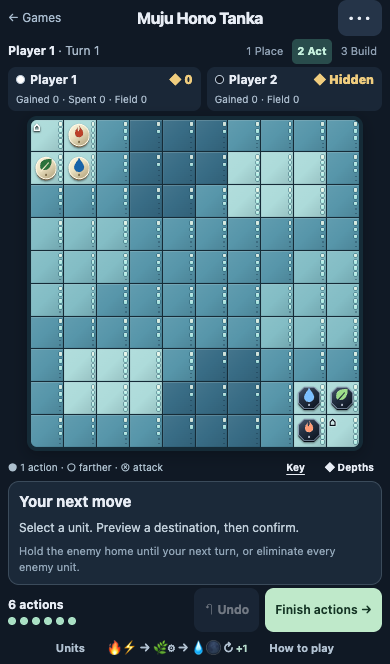
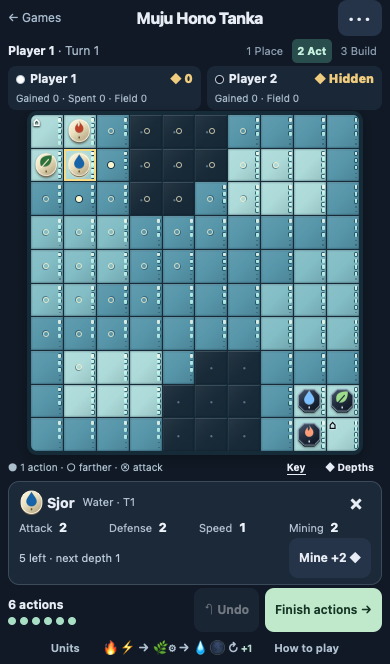
Make two-crystal starting approaches empty and verify the visual release

diff --git a/muju/tests/game/resource-map.test.ts b/muju/tests/game/resource-map.test.ts
@@ -2,28 +2,44 @@ import {describe,it,expect,beforeEach} from 'vitest';
 import {createInitialGameState} from '../../src/game/board';
 import {UNEQUAL_ROUTES_MAP,INITIAL_MAP_RESOURCES} from '../../src/game/resourceMap';
 import {MAPS} from '../../lab/maps/maps';
+import {isValidMove} from '../../src/game/movement';
+import {isValidSpawnPosition} from '../../src/game/spawning';
+import {canMine,executeMine} from '../../src/game/mining';
 import {applyAction} from '../../src/ai/simulate';
 import {checkInvariants} from '../../lab/harness/invariants';
 import {saveGameState,loadGameState} from '../../src/utils/persistence';
 
 describe('Unequal routes production map',()=>{
  beforeEach(()=>localStorage.clear());
- it('ships exactly reviewed map D, with 340 fresh layers and rotational starts',()=>{
-  expect(UNEQUAL_ROUTES_MAP).toEqual(MAPS.find(m=>m.id==='D')!.cells);
-  expect(INITIAL_MAP_RESOURCES).toBe(340);
+ it('changes only the 16 two-crystal cells of reviewed map D to blank, with 308 fresh layers',()=>{
+  expect(UNEQUAL_ROUTES_MAP).toEqual(MAPS.find(m=>m.id==='D')!.cells.map(n=>n===2?0:n));
+  expect(UNEQUAL_ROUTES_MAP.filter(n=>n===0)).toHaveLength(16);
+  expect([...UNEQUAL_ROUTES_MAP].reverse()).toEqual(UNEQUAL_ROUTES_MAP);
+  expect(INITIAL_MAP_RESOURCES).toBe(308);
   const s=createInitialGameState();expect(s.board.cells.flat().map(c=>c.resourceLayers)).toEqual(UNEQUAL_ROUTES_MAP);
   expect(s.board.cells.flat().every(c=>c.minedDepth===0)).toBe(true);checkInvariants(s,'fresh D');
  });
- it('mines a shallow fresh well from depth one and conserves its original capacity',()=>{
+ it('keeps blank approaches walkable and spawn-eligible, with no mining yield',()=>{
   let s=createInitialGameState();const u=s.board.units.find(u=>u.owner==='white'&&u.definitionId==='plant_1')!;
-  u.position={x:3,y:0};s=applyAction(s,{type:'MINE',unitId:u.id});
-  expect(s.players.white.resources).toBe(2);expect(s.board.cells[0][3].minedDepth).toBe(2);expect(s.board.cells[0][3].resourceLayers).toBe(0);checkInvariants(s,'mined shallow');
+  u.position={x:2,y:0};expect(isValidMove(u,{x:3,y:0},s.board)).toBe(true);
+  s=applyAction(s,{type:'MOVE',unitId:u.id,to:{x:3,y:0}});
+  const moved=s.board.units.find(p=>p.id===u.id)!;expect(moved.position).toEqual({x:3,y:0});
+  expect(canMine(moved,s.board)).toBe(false);
+  expect(executeMine(s.board,u.id,0)).toEqual({board:s.board,newResources:0,amountMined:0});
+  expect(s.board.cells[0][3].minedDepth).toBe(0);checkInvariants(s,'blank approach');
+  moved.position={x:4,y:0};expect(isValidSpawnPosition({x:3,y:0},'white',s.board)).toBe(true);
+ });
+ it('mines remaining three-crystal seams from depth one and preserves two-crystal remainders',()=>{
+  let s=createInitialGameState();const u=s.board.units.find(u=>u.owner==='white'&&u.definitionId==='fire_1')!;
+  u.position={x:2,y:0};s=applyAction(s,{type:'MINE',unitId:u.id});
+  expect(s.players.white.resources).toBe(1);expect(s.board.cells[0][2].minedDepth).toBe(1);expect(s.board.cells[0][2].resourceLayers).toBe(2);checkInvariants(s,'mined seam');
+  saveGameState(s);expect(loadGameState()).toEqual(s);
  });
  it('preserves legacy saves and starts the new board only for new games',()=>{
   const old=createInitialGameState(Array(100).fill(5));delete old.board.initialResourceLayers;
   const u=old.board.units[0];const mined=applyAction(old,{type:'MINE',unitId:u.id});saveGameState(mined);
   expect(loadGameState()).toEqual(mined);checkInvariants(loadGameState()!,'legacy save');
-  expect(createInitialGameState().board.cells.flat().reduce((s,c)=>s+c.resourceLayers,0)).toBe(340);
+  expect(createInitialGameState().board.cells.flat().reduce((s,c)=>s+c.resourceLayers,0)).toBe(308);
  });
  it('round-trips a new map save and detects resource corruption',()=>{
   const s=createInitialGameState();saveGameState(s);expect(loadGameState()).toEqual(s);checkInvariants(loadGameState()!,'D save');

diff --git a/muju/src/components/InstructionsModal.tsx b/muju/src/components/InstructionsModal.tsx
@@ -3,6 +3,9 @@ import { PlayDialog } from './PlayDialog';
 import { ELEMENT_INFO, getAttackModifier } from '../game/elements';
 import { getUnitDefinition } from '../game/units';
 import { getElementHex } from '../utils/colors';
+import { UnitArtwork } from './UnitArtwork';
+import { CrystalWell } from './CrystalWell';
+import type { Tier } from '../game/types';
 
 interface InstructionsModalProps {
   isOpen: boolean;
@@ -23,18 +26,10 @@ function DemoUnit({
   size?: 'sm' | 'md' | 'lg';
   damage?: number;
 }) {
-  const color = getElementHex(element);
-  const sizeClass = size === 'sm' ? 'w-6 h-6 text-xs' : size === 'lg' ? 'w-10 h-10 text-base' : 'w-8 h-8 text-sm';
+  const sizeClass = size === 'sm' ? 'w-6 h-6' : size === 'lg' ? 'w-10 h-10' : 'w-8 h-8';
   return (
-    <div className="relative inline-block">
-      <div
-        className={`${sizeClass} rounded-full flex items-center justify-center font-bold text-white ${
-          isPlayer ? 'ring-2 ring-white' : 'ring-2 ring-black'
-        }`}
-        style={{ backgroundColor: color }}
-      >
-        {tier}
-      </div>
+    <div className={`relative inline-block ${sizeClass}`}>
+      <UnitArtwork owner={isPlayer ? 'white' : 'black'} element={element} tier={tier as Tier} />
       {damage > 0 && (
         <div className="absolute -top-1 -right-1 bg-red-600 text-white text-[10px] font-bold rounded-full w-4 h-4 flex items-center justify-center">
           -{damage}
@@ -55,15 +50,6 @@ function DemoCell({
   highlightType?: 'move' | 'attack' | 'spawn';
   children?: React.ReactNode;
 }) {
-  const depthColors = [
-    'bg-gray-800', // 0 = depleted
-    'bg-amber-900/40',
-    'bg-amber-800/50',
-    'bg-amber-700/60',
-    'bg-amber-600/70',
-    'bg-amber-500/80', // 5 = full
-  ];
-
   let highlightClass = '';
   if (highlighted) {
     if (highlightType === 'move') highlightClass = 'ring-2 ring-blue-400 ring-inset';
@@ -73,8 +59,9 @@ function DemoCell({
 
   return (
     <div
-      className={`w-10 h-10 border border-gray-700 flex items-center justify-center ${depthColors[depth]} ${highlightClass}`}
+      className={`relative w-10 h-10 border border-gray-700 flex items-center justify-center board-cell depth-${depth} ${highlightClass}`}
     >
+      <CrystalWell cell={{position: {x: 0, y: 0}, resourceLayers: depth, minedDepth: 0}} />
       {children}
     </div>
   );
@@ -209,8 +196,8 @@ const instructionPages: InstructionPage[] = [
       <div className="space-y-4">
         <p className="text-gray-300">
           The game is played on a <strong className="text-white">10×10 grid</strong>. Each cell contains up to
-          5 layers of resources (shown by amber coloring). New games use <strong className="text-white">Unequal routes</strong>:
-          deep starting corners, four-layer shelves, and shallow paths to five-layer expansion wells. The same layout rotates 180° for the other player, with 340 crystals in total.
+          5 layers of resources (brighter blue-green squares hold more). New games use <strong className="text-white">Unequal routes</strong>:
+          deep starting corners, four-layer shelves, three-layer seams, and 16 blank squares on the paths to five-layer expansion wells. Blank squares have no crystals, but units can move and be placed there normally. The same layout rotates 180° for the other player, with 308 crystals in total.
         </p>
         <div className="flex justify-center items-end gap-2">
           <div className="text-center">

diff --git a/muju/e2e/mobile.spec.ts b/muju/e2e/mobile.spec.ts
@@ -185,12 +185,16 @@ test('v1.3 Lightning combat, Plant extraction and tutorial agree with the catalo
   await expect(page.locator('.help-body')).toContainText('Depleted layers do not return');
 });
 
-test('new games use map D with fresh shallow cells and preserve the layout on reload', async ({ page }) => {
+test('new games use map D with blank approaches and preserve the layout on reload', async ({ page }) => {
   await start(page);
   await page.getByRole('button', { name: 'Depths' }).click();
   const layers = await page.locator('.resource-number').allTextContents();
-  expect(layers.reduce((sum, n) => sum + Number(n), 0)).toBe(340);
-  await expect(page.getByTestId('cell-3-0')).toHaveAttribute('aria-label', /2 resource layers.*next layer at depth 1/);
+  expect(layers.reduce((sum, n) => sum + Number(n), 0)).toBe(308);
+  expect(layers.filter(n => Number(n) === 0)).toHaveLength(16);
+  await expect(page.getByTestId('cell-3-0').locator('.crystal')).toHaveCount(0);
+  await expect(page.getByTestId('cell-3-0').locator('.bedrock')).toHaveCount(5);
+  await expect(page.getByTestId('cell-3-0')).toHaveAttribute('title', 'No crystals · bedrock');
+  await expect(page.getByTestId('cell-3-0')).toHaveAttribute('aria-label', /0 resource layers, no crystals, bedrock/);
   await page.getByTestId('cell-1-1').click();
   await page.getByRole('button', { name: /Mine \+2/ }).click();
   await page.getByRole('button', { name: 'Finish actions' }).click();
@@ -199,7 +203,7 @@ test('new games use map D with fresh shallow cells and preserve the layout on re
   await page.getByRole('button', { name: 'Pass & Play' }).click();
   await page.getByRole('button', { name: 'Start Game' }).click();
   await expect(page.getByTestId('cell-1-1')).toHaveAttribute('aria-label', /3 resource layers.*next layer at depth 3/);
-  await expect(page.getByTestId('cell-3-0')).toHaveAttribute('aria-label', /2 resource layers.*next layer at depth 1/);
+  await expect(page.getByTestId('cell-3-0')).toHaveAttribute('aria-label', /0 resource layers, no crystals, bedrock/);
 });
 
 for (const [width,height] of [[320,568],[390,664]]) test(`home invasion warns, resolves, and survives reload ${width}`,async({page},info)=>{

diff --git a/muju/src/components/Cell.tsx b/muju/src/components/Cell.tsx
@@ -11,7 +11,7 @@ export function Cell({ cell, isValidMove, isValidAttack, isValidSpawn, isSelecte
   const reach = movementRangeActions !== undefined;
   const coord = `${String.fromCharCode(65 + cell.position.x)}${cell.position.y + 1}`;
   const crystalDescription = describeCrystals(cell);
-  const label = `${coord}${home ? `, ${home} home corner` : ''}${unitLabel ? `, ${unitLabel}` : ''}, ${cell.resourceLayers} resource layers, ${cell.resourceLayers > 0 ? `next layer at depth ${cell.minedDepth + 1}, bottom depth ${cell.minedDepth + cell.resourceLayers}` : 'depleted'}${reach ? `, move costs ${moveCost} actions` : ''}${isValidAttack ? ', attack target' : ''}${isValidSpawn ? ', available for placement' : ''}`;
+  const label = `${coord}${home ? `, ${home} home corner` : ''}${unitLabel ? `, ${unitLabel}` : ''}, ${cell.resourceLayers} resource layers, ${cell.resourceLayers > 0 ? `next layer at depth ${cell.minedDepth + 1}, bottom depth ${cell.minedDepth + cell.resourceLayers}` : cell.minedDepth > 0 ? 'depleted' : 'no crystals, bedrock'}${reach ? `, move costs ${moveCost} actions` : ''}${isValidAttack ? ', attack target' : ''}${isValidSpawn ? ', available for placement' : ''}`;
   return <button type="button" tabIndex={unitLabel ? 0 : -1} aria-label={label} title={crystalDescription} aria-pressed={isSelected || isPreview}
     className={`board-cell depth-${cell.resourceLayers} ${isSelected ? 'selected' : ''} ${isValidAttack ? 'attack-target' : ''} ${isValidSpawn ? 'spawn-target' : ''} ${isPendingMove ? 'path-cell' : ''} ${isPreview ? 'preview-cell' : ''}`}
     onClick={() => onClick(cell.position)} data-testid={`cell-${cell.position.x}-${cell.position.y}`}>

diff --git a/muju/src/game/resourceMap.ts b/muju/src/game/resourceMap.ts
@@ -1,16 +1,16 @@
-/** Map D, Unequal routes. Fixed 10×10, 180° rotation; unit catalogue remains v1.3.
+/** Map D, Unequal routes. Empty approaches revision: former two-crystal cells start empty. Fixed 10×10, 180° rotation; unit catalogue remains v1.3.
  * Rows are top to bottom. Each value is initial capacity, never pre-mined depth. */
 export const RESOURCE_MAP_NAME = 'Unequal routes';
 export const UNEQUAL_ROUTES_MAP: readonly number[] = Object.freeze([
-  5, 5, 3, 2, 2, 2, 3, 3, 3, 3,
-  5, 5, 3, 2, 2, 2, 5, 5, 5, 3,
-  3, 3, 3, 2, 2, 3, 5, 5, 5, 3,
+  5, 5, 3, 0, 0, 0, 3, 3, 3, 3,
+  5, 5, 3, 0, 0, 0, 5, 5, 5, 3,
+  3, 3, 3, 0, 0, 3, 5, 5, 5, 3,
   4, 4, 4, 3, 3, 3, 3, 3, 3, 3,
   4, 4, 4, 3, 3, 3, 3, 3, 4, 4,
   4, 4, 3, 3, 3, 3, 3, 4, 4, 4,
   3, 3, 3, 3, 3, 3, 3, 4, 4, 4,
-  3, 5, 5, 5, 3, 2, 2, 3, 3, 3,
-  3, 5, 5, 5, 2, 2, 2, 3, 5, 5,
-  3, 3, 3, 3, 2, 2, 2, 3, 5, 5,
+  3, 5, 5, 5, 3, 0, 0, 3, 3, 3,
+  3, 5, 5, 5, 0, 0, 0, 3, 5, 5,
+  3, 3, 3, 3, 0, 0, 0, 3, 5, 5,
 ]);
 export const INITIAL_MAP_RESOURCES = UNEQUAL_ROUTES_MAP.reduce((sum,n)=>sum+n,0);

diff --git a/muju/src/components/VisualKey.tsx b/muju/src/components/VisualKey.tsx
@@ -8,7 +8,7 @@ const examples = [
   { left: 3, dug: 0, label: 'Thin seam', detail: '3 left · next 1' },
   { left: 3, dug: 2, label: 'Dug down', detail: '3 left · next 3' },
   { left: 1, dug: 4, label: 'Deep', detail: '1 left · next 5' },
-  { left: 1, dug: 0, label: 'Shallow', detail: '1 left · next 1' },
+  { left: 0, dug: 0, label: 'Blank', detail: 'No crystals' },
   { left: 0, dug: 5, label: 'Empty', detail: '0 left' },
 ];
 const elements: Element[] = ['fire', 'lightning', 'water', 'shadow', 'plant', 'metal'];

diff --git a/muju/src/components/CrystalWell.tsx b/muju/src/components/CrystalWell.tsx
@@ -5,7 +5,7 @@ export function describeCrystals(cell: Cell): string {
   const total = cell.minedDepth + cell.resourceLayers;
   return cell.resourceLayers > 0
     ? `${cell.resourceLayers} crystal${cell.resourceLayers === 1 ? '' : 's'} left · next depth ${cell.minedDepth + 1} · bottom ${total}`
-    : `Depleted · ${total} layers mined`;
+    : total > 0 ? `Depleted · ${total} layers mined` : 'No crystals · bedrock';
 }
 
 /** Fixed vertical depth positions prevent confusing a shallow thin seam with

diff --git a/muju/src/game/mining.ts b/muju/src/game/mining.ts
@@ -12,7 +12,7 @@ export function canMineAction(unit: Unit): boolean {
 
 /**
  * The Well Metaphor:
- * - Each square starts with 2–5 depth layers on Unequal routes, each worth 1 resource
+ * - Each square starts with 0, 3, 4, or 5 depth layers on Unequal routes, each worth 1 resource
  * - A unit's Mining stat is its "rope length"
  * - Mining removes topmost remaining layers up to Mining stat
  * - You cannot skip layers or reach deeper than Mining allows

diff --git a/muju/tests/game/properties.test.ts b/muju/tests/game/properties.test.ts
@@ -46,7 +46,7 @@ function mulberry32(seed: number): () => number {
   };
 }
 
-const TOTAL_BOARD_RESOURCES = INITIAL_MAP_RESOURCES; // 340
+const TOTAL_BOARD_RESOURCES = INITIAL_MAP_RESOURCES; // 308
 
 function legalActions(state: GameState, player: PlayerId): AIAction[] {
   switch (state.turn.phase) {

diff --git a/muju/SPEC.md b/muju/SPEC.md
@@ -27,7 +27,7 @@ may be a human or an AI (`vs-ai`, `pass-play`, and `ai-vs-ai` modes).
   starts with 3 units adjacent to their corner and 0 resources.
   - White: Hi (fire_1) at (1,0), Sjor (water_1) at (1,1), Muju (plant_1) at (0,1).
   - Black: Hi at (8,9), Sjor at (8,8), Muju at (9,8).
-- **Resources:** **Unequal routes (map D)**: fixed 180°-rotational layout, 2–5 initial layers per cell, **340 total**. Deep home corners, four-layer shelves and shallow approaches to deep expansion wells. Exact layout: `src/game/resourceMap.ts`. Existing saves retain their original layout.
+- **Resources:** **Unequal routes (map D)**: fixed 180°-rotational layout, 0, 3, 4, or 5 initial layers per cell, **308 total**. Deep home corners, four-layer shelves and sixteen blank approaches to deep expansion wells (walkable and spawn-eligible as usual). Exact layout: `src/game/resourceMap.ts`. Existing saves retain their original layout.
 - **White moves first.** The first turn begins directly in the Action phase
   (there is nothing to place or promote at game start).
 
@@ -96,7 +96,7 @@ may attack different enemies multiple times in one turn, budget permitting.
 ## 5. Economy
 
 ### 5.1 Mining — the Well Metaphor
-- Each cell starts with 2–5 depth layers, numbered from 1 and worth 1 resource each. A unit's **Mining**
+- Each cell starts with 0, 3, 4, or 5 depth layers, numbered from 1 and worth 1 resource each. A unit's **Mining**
   stat is its rope length: it can reach layers down to depth = Mining.
 - A mine action (1 action) extracts **all remaining layers from the current
   top down to the unit's Mining depth**, i.e.
@@ -104,7 +104,7 @@ may attack different enemies multiple times in one turn, budget permitting.
 - If the cell's top remaining layer is deeper than the unit's Mining stat, the
   cell is **dry for that unit** (yield 0; the action is not consumable —
   `canMine` is false). Mining 0 units (Radi, Umeme, Göl) can never mine.
-- Mined layers are gone forever; the board economy is finite (340 total on Unequal routes; 500 in legacy uniform games).
+- Mined layers are gone forever; the board economy is finite (308 total on Unequal routes; 500 in legacy uniform games).
 
 ### 5.2 Build queue (hidden)
 - During the queue phase, the player pays a unit's **Cost** and adds it to

diff --git a/muju/docs/EMPTY_APPROACHES-2026-09-07.md b/muju/docs/EMPTY_APPROACHES-2026-09-07.md
@@ -1,0 +1,16 @@
+# Empty approaches and clearer armies — 2026-09-07
+
+New games use the revised Unequal routes map: all sixteen starting two-crystal cells are now blank (zero crystals, zero mined depth). The remaining 84 cells are unchanged: 20 × five, 16 × four, and 48 × three crystals, for **308 total**. Rotation and starting homes are unchanged. Empty squares remain walkable and eligible for normal reinforcement placement.
+
+This changes initial map capacity only. Mining can still leave two crystals in a well. Saved games retain their exact state and original resource budget. Start a new game to play the revised map.
+
+The release also includes blue-green reserve shading, inset excavation depth and crystal gauges, and ivory/obsidian army graphics with six element silhouettes and tier marks. The board key distinguishes blank bedrock from an exhausted well; the how-to-play examples use the same graphics as the board.
+
+Historical map-study and playtest fixtures remain frozen at 340 crystals. Their balance results are not measurements of the revised map. Unit stats and AI search rules are unchanged.
+
+## Release verification
+
+- 622 unit/property tests and all 27 browser tests pass, including all five AI worker levels.
+- New checks prove the exact 16-cell delta, 308 total, rotation, zero mining yield, normal movement and spawn eligibility, and persistence of two-crystal remainders.
+- The complete three-game build and phone/tablet gameplay smoke checks pass.
+- WebKit touch viewports at 390×664, 320×568 and 844×390 show 16 blank cells, 308 crystals, and no document overflow. The iPhone-size board was visually inspected.

diff --git a/muju/docs/VISUAL_SYSTEM-2026-09-07.md b/muju/docs/VISUAL_SYSTEM-2026-09-07.md
@@ -1,6 +1,6 @@
 # Crystal wells and elemental armies
 
-Visual implementation based on production source `9c2a94d` (WASM AI, map D and home victory included). This branch changes graphics and explanatory UI only. No mining, unit, balance, map, turn, or AI rules were changed. It has not been deployed.
+Visual implementation based on production source `9c2a94d` (WASM AI, map D and home victory included). The original visual change affected graphics and explanatory UI only. It is included in the [empty-approaches release](EMPTY_APPROACHES-2026-09-07.md), which also changes starting map capacity from 340 to 308 crystals.
 
 ## Reading a square
 
@@ -32,4 +32,4 @@ Open **Key** beside Depths for illustrated examples. This dialog adds no height 
 
 To regenerate the reference from the actual components, run `npm run build` in `muju`, then `node --import tsx tools/render-visual-reference.tsx /private/tmp/muju-visual-reference.html`. Open the generated HTML in a browser at 1072px wide. It embeds the built stylesheet and renders the SVG components directly, so the reference cannot silently diverge from a separate illustration file.
 
-Before deploying, integrate with the latest production branch and use the existing deevgames full-site release workflow. Vite still emits content-hashed CSS/JS and unchanged worker/WASM assets. No ashkie-pages deployable files or offline manifest were edited.
+This release includes the latest production branch and uses the existing deevgames full-site release workflow. Vite still emits content-hashed CSS/JS and unchanged worker/WASM assets. No ashkie-pages deployable files or offline manifest were edited.
